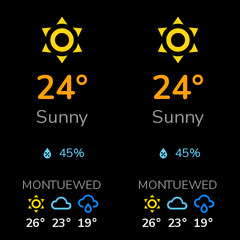
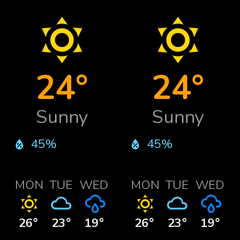
fix: weather widget fills cell with proper space distribution
The previous Stack-with-absolute-Padding approach worked at the watch
size where main_weather's natural content + humidity overlay + forecast
all fit at carefully tuned percentages — but in the dashboard hero
layout (180px tall), main_weather's natural Column content overflowed
those boundaries and clustered at the top, wasting the bottom 40%.

New approach: a single Column with [main_weather, humidity_row,
Spacer(), forecast_component] that uses align='stretch' so children
get the full container width (the forecast row's three day-columns
can space-around across all of it instead of bunching into a centered
natural-width block). The Spacer absorbs leftover slack so the
forecast always pins to the bottom edge regardless of cell height.

Net effect: weather fills both 240×240 widget cells and 240×180 hero
cells with no overlap and no wasted space.

diff --git a/custom_components/geekmagic/widgets/weather.py b/custom_components/geekmagic/widgets/weather.py
@@ -15,6 +15,7 @@ from .components import (
     Component,
     Icon,
     Row,
+    Spacer,
     Text,
 )
 from .theme import (
@@ -168,6 +169,10 @@ class WeatherDisplay(Component):
         # Main weather display (icon, temp, condition)
         temp_str = f"{self.temperature}°" if self.temperature != "--" else "--"
 
+        # Lay out icon → temp → condition starting at the top of the
+        # cell. They naturally occupy the top ~50%; the bottom half is
+        # used by the humidity overlay and forecast row stacked below
+        # via absolute Padding positions.
         main_weather = Column(
             children=[
                 Icon(icon_name, size=icon_size, color=self._icon_tint),
@@ -241,15 +246,21 @@ class WeatherDisplay(Component):
                     padding=padding,
                 )
 
-        # Build the final layout
+        # Build the final layout — single Column packing every pixel:
+        # main_weather + humidity flow from the top, a Spacer absorbs
+        # any leftover slack, and the forecast pins to the bottom. This
+        # keeps the cell visually full at any height (180px hero or
+        # full 240px) without overlap.
+        # align="stretch" gives each child the full container width so
+        # the forecast row's three columns can space-around across all
+        # of it (otherwise Row gets only its natural width and the days
+        # bunch together).
         if humidity_row and forecast_component:
-            # All three sections — stack vertically with proper space
-            # allocation so they never overlap.
             return Column(
-                children=[main_weather, humidity_row, forecast_component],
-                gap=int(height * 0.03),
-                align="center",
-                justify="space-between",
+                children=[main_weather, humidity_row, Spacer(), forecast_component],
+                gap=int(height * 0.02),
+                align="stretch",
+                justify="start",
             )
         if humidity_row:
             # Just main + humidity